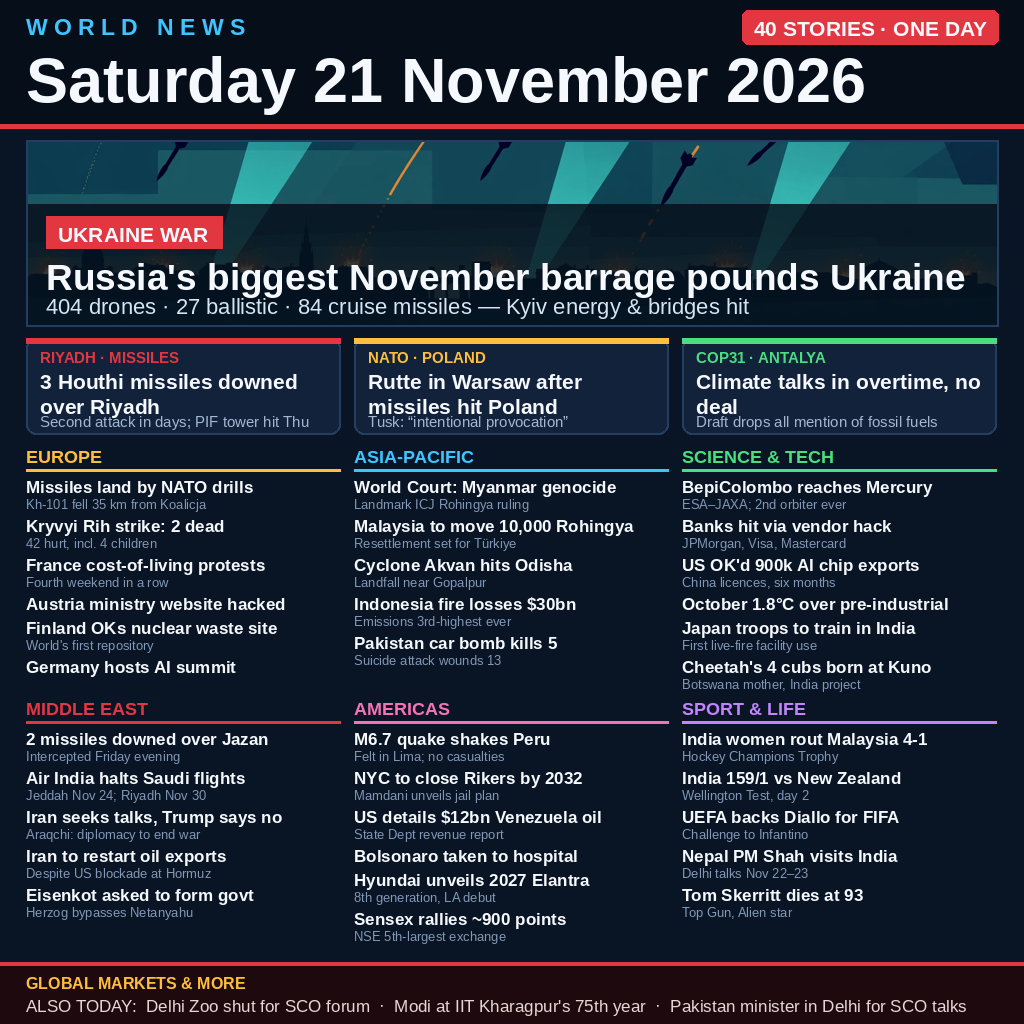
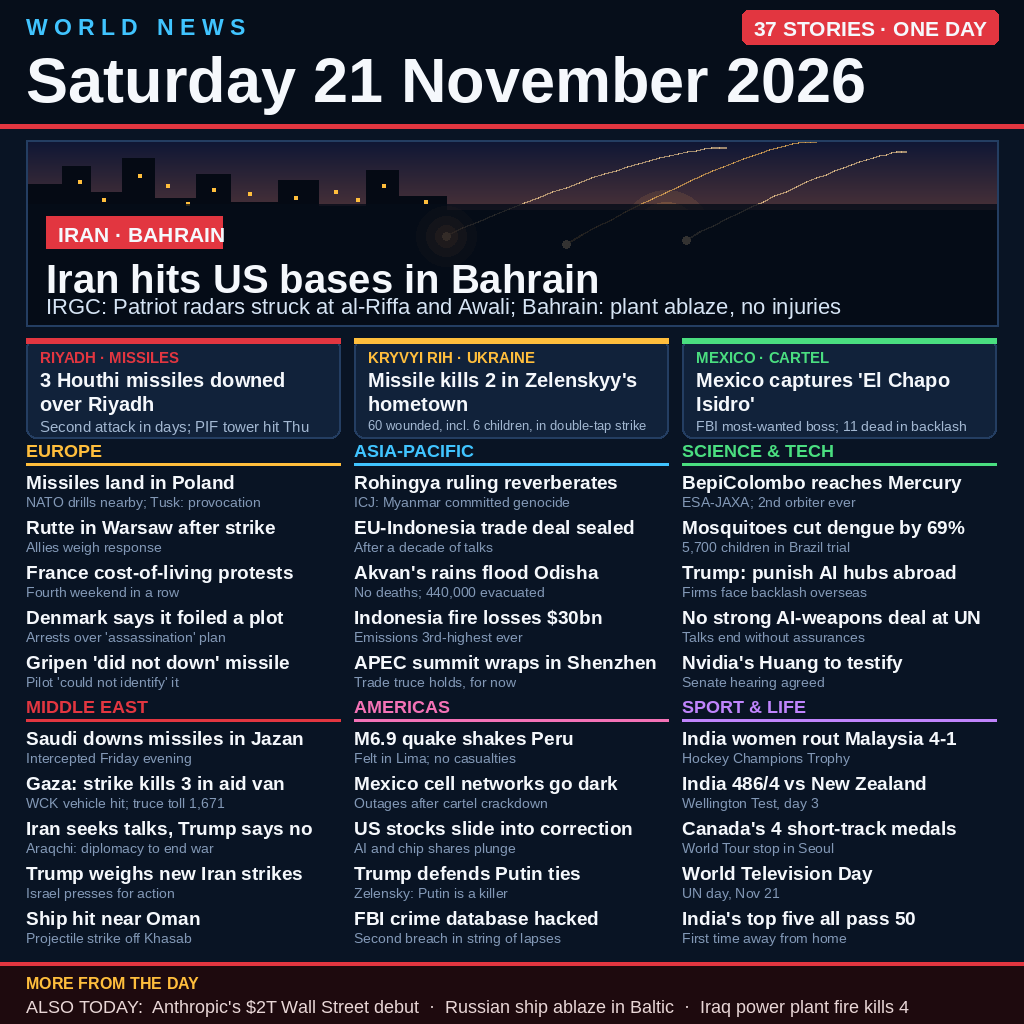
Final edition v3: 37-story front page, 19px headlines, Iran-Bahrain lead

Changed region(s): [[0.0, 0.3438, 0.9688, 1.0], [0.0, 0.125, 1.0, 0.3125]]

diff --git a/main.py b/main.py
@@ -1,9 +1,11 @@
-"""News-image entry for 21 November 2026.
+"""News-image entry for 21 November 2026, v3 (final edition).
 
-The repository ships the finished front page as entry.png (final edition:
-40 stories from Saturday 21 November 2026, one 1024x1024 picture); this
-program copies it to the output directory, byte for byte, with no network
-use. Outside the grader, MAKEFUN_OUTPUT_DIR stands in for /output.
+The repository ships the finished front page as entry.png (37 stories
+from Saturday 21 November 2026, one 1024x1024 picture: bigger 19px
+section headlines and more air than v2's dense 17px layout, lead story
+Iran's strikes on US positions in Bahrain); this program copies it to
+the output directory, byte for byte, with no network use. Outside the
+grader, MAKEFUN_OUTPUT_DIR stands in for /output.
 """
 
 import os
@@ -13,10 +15,10 @@ from pathlib import Path
 
 def main() -> None:
     # The grader mounts a writable /output; locally MAKEFUN_OUTPUT_DIR overrides it.
-    output_dir = Path(os.environ.get("MAKEFUN_OUTPUT_DIR", "/output"))
-    output_dir.mkdir(parents=True, exist_ok=True)
+    out_dir = Path(os.environ.get("MAKEFUN_OUTPUT_DIR", "/output"))
+    out_dir.mkdir(parents=True, exist_ok=True)
     source = Path(__file__).resolve().parent / "entry.png"
-    shutil.copyfile(source, output_dir / "entry.png")
+    shutil.copyfile(source, out_dir / "entry.png")  # byte-for-byte copy
 
 
 if __name__ == "__main__":

diff --git a/README.md b/README.md
@@ -4,7 +4,7 @@
 [![rank](https://make.fun/badge/news-image-20261121/Doritra/news-image-20261121/rank.svg)](https://make.fun/bounty/news-image-20261121/leaderboard?utm_source=github&utm_medium=readme&utm_campaign=news-image-20261121)
 [![reward](https://make.fun/badge/news-image-20261121/Doritra/news-image-20261121/reward.svg)](https://make.fun/bounty/news-image-20261121?utm_source=github&utm_medium=readme&utm_campaign=news-image-20261121)
 
-One image that sums up the world news of Saturday 21 November 2026: Russia's mass drone-and-missile barrage on Ukraine spilling into Poland, the World Court's genocide ruling on Myanmar, COP31 running into overtime in Antalya, Cyclone Akvan hitting India's east coast, Indonesia's fire losses, and a cyberattack reported by global banks. The program copies the shipped front page, entry.png, to /output/entry.png.
+One image that sums up the world news of Saturday 21 November 2026: Iran's strikes on US positions in Bahrain, Houthi missiles downed over Riyadh, the Kryvyi Rih double-tap strike, Mexico's capture of cartel boss "El Chapo Isidro", COP31 running into overtime in Antalya, BepiColombo reaching Mercury, and Cyclone Akvan's aftermath in Odisha. The program copies the shipped front page, entry.png, to /output/entry.png.
 
 ## Run it
 
